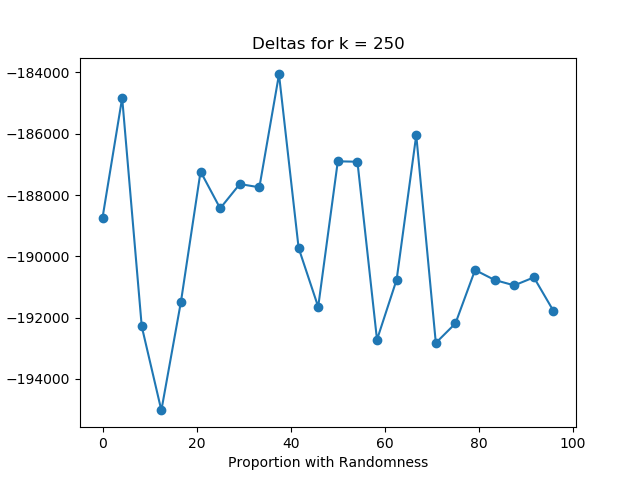
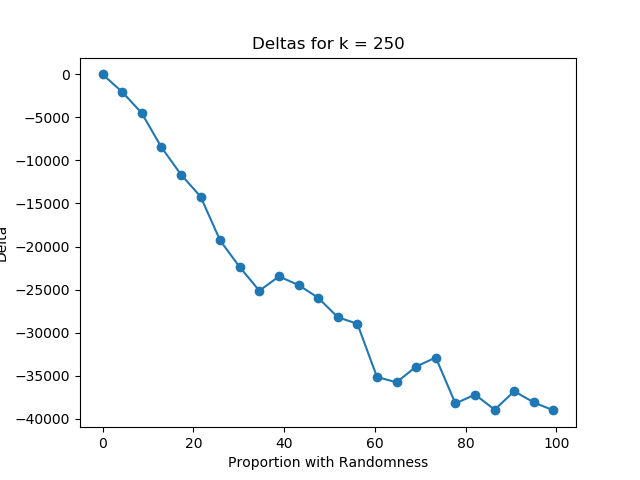
updated graph title, fixed capacity bug

diff --git a/py-school-match/simulation.py b/py-school-match/simulation.py
@@ -10,7 +10,9 @@ fig_dir = "figures/"
 # S: 0-50
 # M: 50-100
 # L: 100-200
-schools_per_region_by_size = {"S": (1, 50), "M": (50, 100), "L": (100, 200)}
+schools_per_region_by_size = {"S": (1, 5), "M": (5, 10), "L": (10, 20)}
+
+region_size = 10
 
 def print_matches(students):
     for student in students:
@@ -29,18 +31,17 @@ def create_schools():
         for row in filereader:
             [region_name, size] = row
             lower, upper = schools_per_region_by_size[size]
-            region_capacity = random.randint(lower, upper)
             region_schools = []
-            region_size = 10
-            school_capacity = math.ceil(region_capacity / region_size)
+            region_capacity = 0
 
             # iterate through # of "buckets" in region and create schools w/ random caps
             for _ in range(region_size):
+                school_capacity = random.randint(lower, upper)
                 school = psm.School(school_capacity)
                 school.category = region_name
                 schools.append(school)
                 region_schools.append(school)
-
+                region_capacity += school_capacity
                 total_capacity += school_capacity
                 # region_capacity += school_capacity
 
@@ -64,7 +65,7 @@ def create_students(regions, schools, total_capacity):
     for i in range(num_students):
         student = psm.Student()
         school_prefs = []
-        region_prefs = [i for i in regions]
+        region_prefs = [region for region in regions]
         random.shuffle(region_prefs)
         student.category_preferences = region_prefs
 
@@ -73,8 +74,8 @@ def create_students(regions, schools, total_capacity):
             random.shuffle(region_school_prefs)
             school_prefs.extend(region_school_prefs)
 
-        student.preferences = school_prefs
-        student.original_preferences = school_prefs
+        student.preferences = school_prefs.copy()
+        student.original_preferences = school_prefs.copy()
         students.append(student)
 
     print("TOTAL STUDENTS: ", len(students))
@@ -85,7 +86,7 @@ def permute_preferences(students, k_array):
     # using array allows for different degrees of randomness between students
     for i in range(len(students)):
         student = students[i]
-        lst = student.original_preferences
+        lst = student.original_preferences.copy()
         num_schools = len(lst)
         for _ in range(k_array[i]):
             i1,i2 = random.sample(range(num_schools), 2)
@@ -216,29 +217,29 @@ def graph_results(ks, results):
     print("Matching2 Utility: ", matching2_utilities)
 
     f = plt.figure()
-    plt.plot(ks, deltas, marker='v')
+    plt.plot(ks, deltas, marker='o')
     plt.ylabel("Change in Utility")
     plt.xlabel("K")
     plt.title("Change in Total Welfare from One-Stage to Two-Stage")
-    f.savefig(fig_dir + "delta-utility-1stage-2stage.png")
+    f.savefig(fig_dir + "delta-utility-1stage-2stage.png", bbox_inches='tight')
     f.clear()
     plt.close(f)
 
     f = plt.figure()
-    plt.plot(ks, matching1_utilities, marker='v')
+    plt.plot(ks, matching1_utilities, marker='o')
     plt.ylabel("Utility")
     plt.xlabel("K")
     plt.title("One-Stage Matching Utilities")
-    f.savefig(fig_dir + "1stage-utility.png")
+    f.savefig(fig_dir + "1stage-utility.png", bbox_inches='tight')
     f.clear()
     plt.close(f)
 
     f = plt.figure()
-    plt.plot(ks, matching2_utilities, marker='v')
+    plt.plot(ks, matching2_utilities, marker='o')
     plt.ylabel("Utility")
     plt.xlabel("K")
     plt.title("Two-Stage Matching Utilities")
-    f.savefig(fig_dir + "2stage-utility.png")
+    f.savefig(fig_dir + "2stage-utility.png", bbox_inches='tight')
     f.clear()
     plt.close(f)
 
@@ -256,21 +257,24 @@ def run_simulation():
     # using array allows for different degrees of randomness between students
     # eg. first half completely parameterized by region, second half very random
 
-    # results = []
-    # ks = [i for i in range(0, 100, 10)] + [i for i in range(100, 1000, 50)] + [i for i in range(1000, 2000, 100)]
-    # for k in ks:
-    #     k_array = [k] * len(students)
-    #     print("Get Matchings: k = " + str(k))
-    #     one_stage_matches, two_stage_matches = get_matchings(k_array, regions, schools, students)
+    print("************** Varying K *****************")
+    results = []
+    ks = [i for i in range(0, 100, 10)] + [i for i in range(100, 1000, 50)] + [i for i in range(1000, 2000, 100)]
+    for k in ks:
+        print("********** K = " + str(k) + " ************")
+        k_array = [k] * len(students)
+        print("Get Matchings: k = " + str(k))
+        one_stage_matches, two_stage_matches = get_matchings(k_array, regions, schools, students)
         
-    #     match_results = compare_matchings(students, one_stage_matches, two_stage_matches)
-    #     print(match_results)
-    #     results.append(match_results)
+        match_results = compare_matchings(students, one_stage_matches, two_stage_matches)
+        print(match_results)
+        results.append(match_results)
         
-    # graph_results(ks, results)
+    graph_results(ks, results)
 
+    print("**************** Varying Proportion that are Random ******************")
     proportions = [i for i in range(0, len(students), 150)]
-    for k in [50, 100]:
+    for k in [50, 100, 250, 500, 1000]:
         print("************* K = " + str(k) + " ******************")
         different_randomness_results = []
         for i in proportions:
@@ -285,13 +289,12 @@ def run_simulation():
         x_vals = [round((i/len(students))*100, 2) for i in proportions]
         f = plt.figure()
         plt.plot(x_vals, [m["delta"] for m in different_randomness_results], marker='o')
-        plt.ylabel("Delta")
-        plt.xlabel("Proportion with Randomness")
-        plt.title("Deltas for k = " + str(k))
-        f.savefig(fig_dir + "proportions-k-" + str(k) + ".png")
+        plt.ylabel("Utility")
+        plt.xlabel("Proportion with Randomness (%)")
+        plt.title("Change in Welfare with Varying Proportion of Teachers with Random Preferences (K = " + str(k) + ")")
+        f.savefig(fig_dir + "proportions-k-" + str(k) + ".png", bbox_inches='tight')
         f.clear()
         plt.close(f)
-
 
 run_simulation()
 
